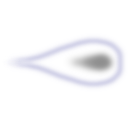
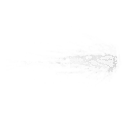
transcendent effects + minor fixes

Changed region(s): [[0.125, 0.2812, 0.9688, 0.6875]]

diff --git a/main/src/com/miloshpetrov/sol2/game/StarPort.java b/main/src/com/miloshpetrov/sol2/game/StarPort.java
@@ -1,9 +1,9 @@
 package com.miloshpetrov.sol2.game;
 
+import com.badlogic.gdx.graphics.g2d.TextureAtlas;
 import com.badlogic.gdx.math.Vector2;
 import com.badlogic.gdx.physics.box2d.*;
 import com.miloshpetrov.sol2.Const;
-import com.miloshpetrov.sol2.TexMan;
 import com.miloshpetrov.sol2.common.*;
 import com.miloshpetrov.sol2.game.dra.*;
 import com.miloshpetrov.sol2.game.particle.*;
@@ -54,15 +54,23 @@ public class StarPort implements SolObj {
     SolShip ship = ForceBeacon.pullShips(game, this, myPos, null, null, .4f * SIZE);
     if (ship != null && ship.getMoney() >= FARE && ship.getPos().dst(myPos) < .05f * SIZE) {
       ship.setMoney(ship.getMoney() - FARE);
-      Transcendent t = new Transcendent(game.getTexMan(), ship, myFrom, myTo);
+      Transcendent t = new Transcendent(ship, myFrom, myTo, game);
       ObjMan objMan = game.getObjMan();
       objMan.addObjDelayed(t);
+      blip(game, ship);
+      game.getSoundMan().play(game, game.getSpecialSounds().transcendentCreated, null, t);
       objMan.removeObjDelayed(ship);
     }
     for (LightSrc l : myLights) {
       l.update(true, myAngle, game);
     }
 
+  }
+
+  private static void blip(SolGame game, SolShip ship) {
+    TextureAtlas.AtlasRegion tex = game.getTexMan().getTex(Teleport.TEX_PATH, false, null);
+    float blipSz = ship.getHull().config.approxRadius * 10;
+    game.getPartMan().blip(game, ship.getPos(), SolMath.rnd(180), blipSz, 1, Vector2.Zero, tex);
   }
 
   public boolean isSecondary() {
@@ -166,7 +174,7 @@ public class StarPort implements SolObj {
   }
 
   public static class Builder {
-    public static final float FLOW_DIST = .26f;
+    public static final float FLOW_DIST = .26f * SIZE;
     private final PathLoader myLoader;
 
     public Builder() {
@@ -185,6 +193,9 @@ public class StarPort implements SolObj {
       addFlow(game, pos, dras, 90, lights);
       addFlow(game, pos, dras, -90, lights);
       addFlow(game, pos, dras, 180, lights);
+      ParticleSrc force = game.getSpecialEffects().buildForceBeacon(FLOW_DIST * 1.5f, game, new Vector2(), pos, Vector2.Zero);
+      force.setWorking(true);
+      dras.add(force);
       StarPort sp = new StarPort(from, to, body, dras, secondary, lights);
       body.setUserData(sp);
       return sp;
@@ -193,8 +204,8 @@ public class StarPort implements SolObj {
     private void addFlow(SolGame game, Vector2 pos, ArrayList<Dra> dras, float angle, ArrayList<LightSrc> lights) {
       EffectConfig flow = game.getSpecialEffects().starPortFlow;
       Vector2 relPos = new Vector2();
-      SolMath.fromAl(relPos, angle, -FLOW_DIST * SIZE);
-      ParticleSrc f1 = new ParticleSrc(flow, FLOW_DIST * SIZE, DraLevel.PART_BG_1, relPos, false, game, pos, Vector2.Zero, angle);
+      SolMath.fromAl(relPos, angle, -FLOW_DIST);
+      ParticleSrc f1 = new ParticleSrc(flow, FLOW_DIST, DraLevel.PART_BG_1, relPos, false, game, pos, Vector2.Zero, angle);
       f1.setWorking(true);
       dras.add(f1);
       LightSrc light = new LightSrc(game, .6f, true, 1, relPos, flow.tint);
@@ -276,19 +287,30 @@ public class StarPort implements SolObj {
     private final Vector2 myDestPos;
     private final ArrayList<Dra> myDras;
     private final FarShip myShip;
+    private final Vector2 mySpd;
+    private final LightSrc myLight;
 
     private float myAngle;
+    private final ParticleSrc myEff;
 
-    public Transcendent(TexMan texMan, SolShip ship, Planet from, Planet to) {
+    public Transcendent(SolShip ship, Planet from, Planet to, SolGame game) {
       myShip = ship.toFarObj();
       myFrom = from;
       myTo = to;
       myPos = new Vector2(ship.getPos());
+      mySpd = new Vector2();
       myDestPos = new Vector2();
 
-      RectSprite s = new RectSprite(texMan.getTex("misc/transcendent", null), TRAN_SZ, TRAN_SZ, 0, new Vector2(), DraLevel.BODIES, 0, 0, Col.W, false);
+      RectSprite s = new RectSprite(game.getTexMan().getTex("misc/transcendent", null), TRAN_SZ, .3f, 0, new Vector2(), DraLevel.BODIES, 0, 0, Col.W, false);
       myDras = new ArrayList<Dra>();
       myDras.add(s);
+      EffectConfig eff = game.getSpecialEffects().transcendentWork;
+      myEff = new ParticleSrc(eff, TRAN_SZ, DraLevel.PART_BG_1, new Vector2(), true, game, myPos, Vector2.Zero, 0);
+      myEff.setWorking(true);
+      myDras.add(myEff);
+      myLight = new LightSrc(game, .6f * TRAN_SZ, true, .5f, new Vector2(), eff.tint);
+      myLight.collectDras(myDras);
+      setDependentParams();
     }
 
     public FarShip getShip() {
@@ -297,16 +319,10 @@ public class StarPort implements SolObj {
 
     @Override
     public void update(SolGame game) {
+      setDependentParams();
+
       float ts = game.getTimeStep();
-
-      Vector2 toPos = myTo.getPos();
-      float nodeAngle = SolMath.angle(toPos, myFrom.getPos());
-      SolMath.fromAl(myDestPos, nodeAngle, myTo.getFullHeight() + DIST_FROM_PLANET + SIZE/2);
-      myDestPos.add(toPos);
-
-
-      myAngle = SolMath.angle(myPos, myDestPos);
-      Vector2 moveDiff = SolMath.fromAl(myAngle, Const.MAX_MOVE_SPD * 2); //hack again : (
+      Vector2 moveDiff = SolMath.getVec(mySpd);
       moveDiff.scl(ts);
       myPos.add(moveDiff);
       SolMath.free(moveDiff);
@@ -316,9 +332,24 @@ public class StarPort implements SolObj {
         objMan.removeObjDelayed(this);
         myShip.setPos(myPos);
         myShip.setSpd(new Vector2());
-        SolObj ship = myShip.toObj(game);
+        SolShip ship = myShip.toObj(game);
         objMan.addObjDelayed(ship);
+        blip(game, ship);
+        game.getSoundMan().play(game, game.getSpecialSounds().transcendentFinished, null, this);
+        game.getObjMan().resetDelays(); // because of the hacked speed
+      } else {
+        game.getSoundMan().play(game, game.getSpecialSounds().transcendentMove, null, this);
+        myLight.update(true, myAngle, game);
       }
+    }
+
+    private void setDependentParams() {
+      Vector2 toPos = myTo.getPos();
+      float nodeAngle = SolMath.angle(toPos, myFrom.getPos());
+      SolMath.fromAl(myDestPos, nodeAngle, myTo.getFullHeight() + DIST_FROM_PLANET + SIZE/2);
+      myDestPos.add(toPos);
+      myAngle = SolMath.angle(myPos, myDestPos);
+      SolMath.fromAl(mySpd, myAngle, Const.MAX_MOVE_SPD * 2); //hack again : (
     }
 
     @Override
@@ -328,6 +359,7 @@ public class StarPort implements SolObj {
 
     @Override
     public void onRemove(SolGame game) {
+      game.getPartMan().finish(game, myEff, myPos);
     }
 
     @Override
@@ -366,7 +398,7 @@ public class StarPort implements SolObj {
 
     @Override
     public Vector2 getSpd() {
-      return null;
+      return mySpd;
     }
 
     @Override

diff --git a/main/src/com/miloshpetrov/sol2/game/sound/SpecialSounds.java b/main/src/com/miloshpetrov/sol2/game/sound/SpecialSounds.java
@@ -26,6 +26,9 @@ public class SpecialSounds {
   public final SolSound controlDisabled;
   public final SolSound controlEnabled;
   public final SolSound lootThrow;
+  public final SolSound transcendentCreated;
+  public final SolSound transcendentFinished;
+  public final SolSound transcendentMove;
 
   public SpecialSounds(SoundMan soundMan) {
     JsonReader r = new JsonReader();
@@ -49,6 +52,9 @@ public class SpecialSounds {
     controlDisabled = soundMan.getSound(node.getString("controlDisabled"), configFile);
     controlEnabled = soundMan.getSound(node.getString("controlEnabled"), configFile);
     lootThrow = soundMan.getSound(node.getString("lootThrow"), configFile);
+    transcendentCreated = soundMan.getSound(node.getString("transcendentCreated"), configFile);
+    transcendentFinished = soundMan.getSound(node.getString("transcendentFinished"), configFile);
+    transcendentMove = soundMan.getLoopedSound(node.getString("transcendentMove"), configFile);
   }
 
   public SolSound dmgSound(boolean forMetal, DmgType dmgType) {

diff --git a/main/src/com/miloshpetrov/sol2/game/particle/SpecialEffects.java b/main/src/com/miloshpetrov/sol2/game/particle/SpecialEffects.java
@@ -22,6 +22,7 @@ public class SpecialEffects {
   private final EffectConfig myAsteroidDust;
   private final EffectConfig myForceBeacon;
   public final EffectConfig starPortFlow;
+  public final EffectConfig transcendentWork;
 
   public SpecialEffects(EffectTypes effectTypes, TexMan texMan, GameCols cols) {
     JsonReader r = new JsonReader();
@@ -35,6 +36,7 @@ public class SpecialEffects {
     myAsteroidDust = EffectConfig.load(node.get("asteroidDust"), effectTypes, texMan, configFile, cols);
     myForceBeacon = EffectConfig.load(node.get("forceBeacon"), effectTypes, texMan, configFile, cols);
     starPortFlow = EffectConfig.load(node.get("starPortFlow"), effectTypes, texMan, configFile, cols);
+    transcendentWork = EffectConfig.load(node.get("transcendentWork"), effectTypes, texMan, configFile, cols);
   }
 
   public List<ParticleSrc> buildBodyEffs(float objRad, SolGame game, Vector2 pos, Vector2 spd) {

diff --git a/main/src/com/miloshpetrov/sol2/game/ship/Teleport.java b/main/src/com/miloshpetrov/sol2/game/ship/Teleport.java
@@ -10,6 +10,7 @@ import com.miloshpetrov.sol2.game.item.SolItem;
 
 public class Teleport implements ShipAbility {
   public static final int MAX_RADIUS = 4;
+  public static final String TEX_PATH = "misc/teleportBlip";
   private final Vector2 myNewPos;
   private final Config myConfig;
   private boolean myShouldTeleport;
@@ -61,7 +62,7 @@ public class Teleport implements ShipAbility {
   public void maybeTeleport(SolGame game, SolShip owner) {
     if (!myShouldTeleport) return;
 
-    TextureAtlas.AtlasRegion tex = game.getTexMan().getTex("misc/teleportBlip", false, null);
+    TextureAtlas.AtlasRegion tex = game.getTexMan().getTex(TEX_PATH, false, null);
     float blipSz = owner.getHull().config.approxRadius * 3;
     game.getPartMan().blip(game, owner.getPos(), SolMath.rnd(180), blipSz, 1, Vector2.Zero, tex);
     game.getPartMan().blip(game, myNewPos, SolMath.rnd(180), blipSz, 1, Vector2.Zero, tex);

diff --git a/main/src/com/miloshpetrov/sol2/game/ship/ForceBeacon.java b/main/src/com/miloshpetrov/sol2/game/ship/ForceBeacon.java
@@ -55,7 +55,6 @@ public class ForceBeacon {
         if (toMeLen > 1) toMe.scl(1/toMeLen);
         if (ownSpd != null) toMe.add(ownSpd);
         ship.getHull().getBody().setLinearVelocity(toMe);
-        game.getSoundMan().play(game, game.getSpecialSounds().forceBeaconWork, ownPos, owner);
         if (toMeLen < minLen) {
           res = ship;
           minLen = toMeLen;
@@ -63,6 +62,7 @@ public class ForceBeacon {
       }
       SolMath.free(toMe);
     }
+    if (res != null) game.getSoundMan().play(game, game.getSpecialSounds().forceBeaconWork, ownPos, owner);
     return res;
   }
 }

diff --git a/main/src/com/miloshpetrov/sol2/game/ship/FarShip.java b/main/src/com/miloshpetrov/sol2/game/ship/FarShip.java
@@ -59,7 +59,7 @@ public class FarShip implements FarObj {
   }
 
   @Override
-  public SolObj toObj(SolGame game) {
+  public SolShip toObj(SolGame game) {
     return game.getShipBuilder().build(game, myPos, mySpd, myAngle, myRotSpd, myPilot, myContainer, myHullConfig, myLife, myMount1Fixed, myMount2Fixed, myGun1,
       myGun2, myRemoveController, myEngine, myRepairer, myMoney, myTradeContainer, myShield, myArmor);
   }

diff --git a/main/src/com/miloshpetrov/sol2/game/projectile/Projectile.java b/main/src/com/miloshpetrov/sol2/game/projectile/Projectile.java
@@ -272,6 +272,8 @@ public class Projectile implements SolObj {
     @Override
     public void draw(Drawer drawer, SolGame game) {
       float h = myWidth;
+      float minH = game.getCam().getRealLineWidth();
+      if (h < minH) h = minH;
       Vector2 pos = myProjectile.getPos();
       float w = myProjectile.getSpd().len() * game.getTimeStep();
       if (w < h) w = h;
